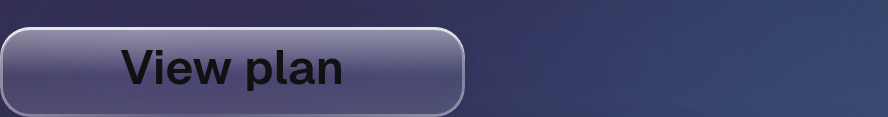
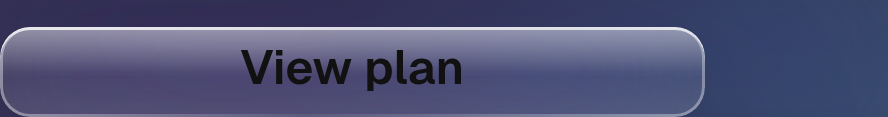
fix(button): elongate to a thin glass-blade silhouette (~4.5-5:1)
Owner: height is right, the button was too short. Widen via horizontal padding
(px-7/px-10/px-12, ~+40-50%) for a ~4.5-5:1 elongated silhouette on a medium
label; keep the current heights and soft non-spherical corners. The silhouette
alone now reads as a thin horizontal sliver of glass. Geometry only — material,
optics, reflections, volume, Fresnel, refraction and shadows are unchanged.

Claude-Session: https://claude.ai/code/session_01JSKxADquWPscGGWu93W5g6

Changed region(s): [[0.1216, 0.2308, 0.8209, 1.0]]

diff --git a/src/components/ui/button.tsx b/src/components/ui/button.tsx
@@ -37,9 +37,9 @@ export const buttonVariants = cva(
       // a thin machined sliver of glass laid on the surface, never a cushion.
       // Material/optics are unchanged.
       size: {
-        sm: 'h-[26px] px-5 text-body-sm rounded-[8px]',
-        md: 'h-[30px] px-7 text-body rounded-[10px]',
-        lg: 'h-[38px] px-8 text-body-lg rounded-[12px]',
+        sm: 'h-[26px] px-7 text-body-sm rounded-[8px]',
+        md: 'h-[30px] px-10 text-body rounded-[10px]',
+        lg: 'h-[38px] px-12 text-body-lg rounded-[12px]',
       },
     },
     defaultVariants: { variant: 'primary', size: 'md' },
